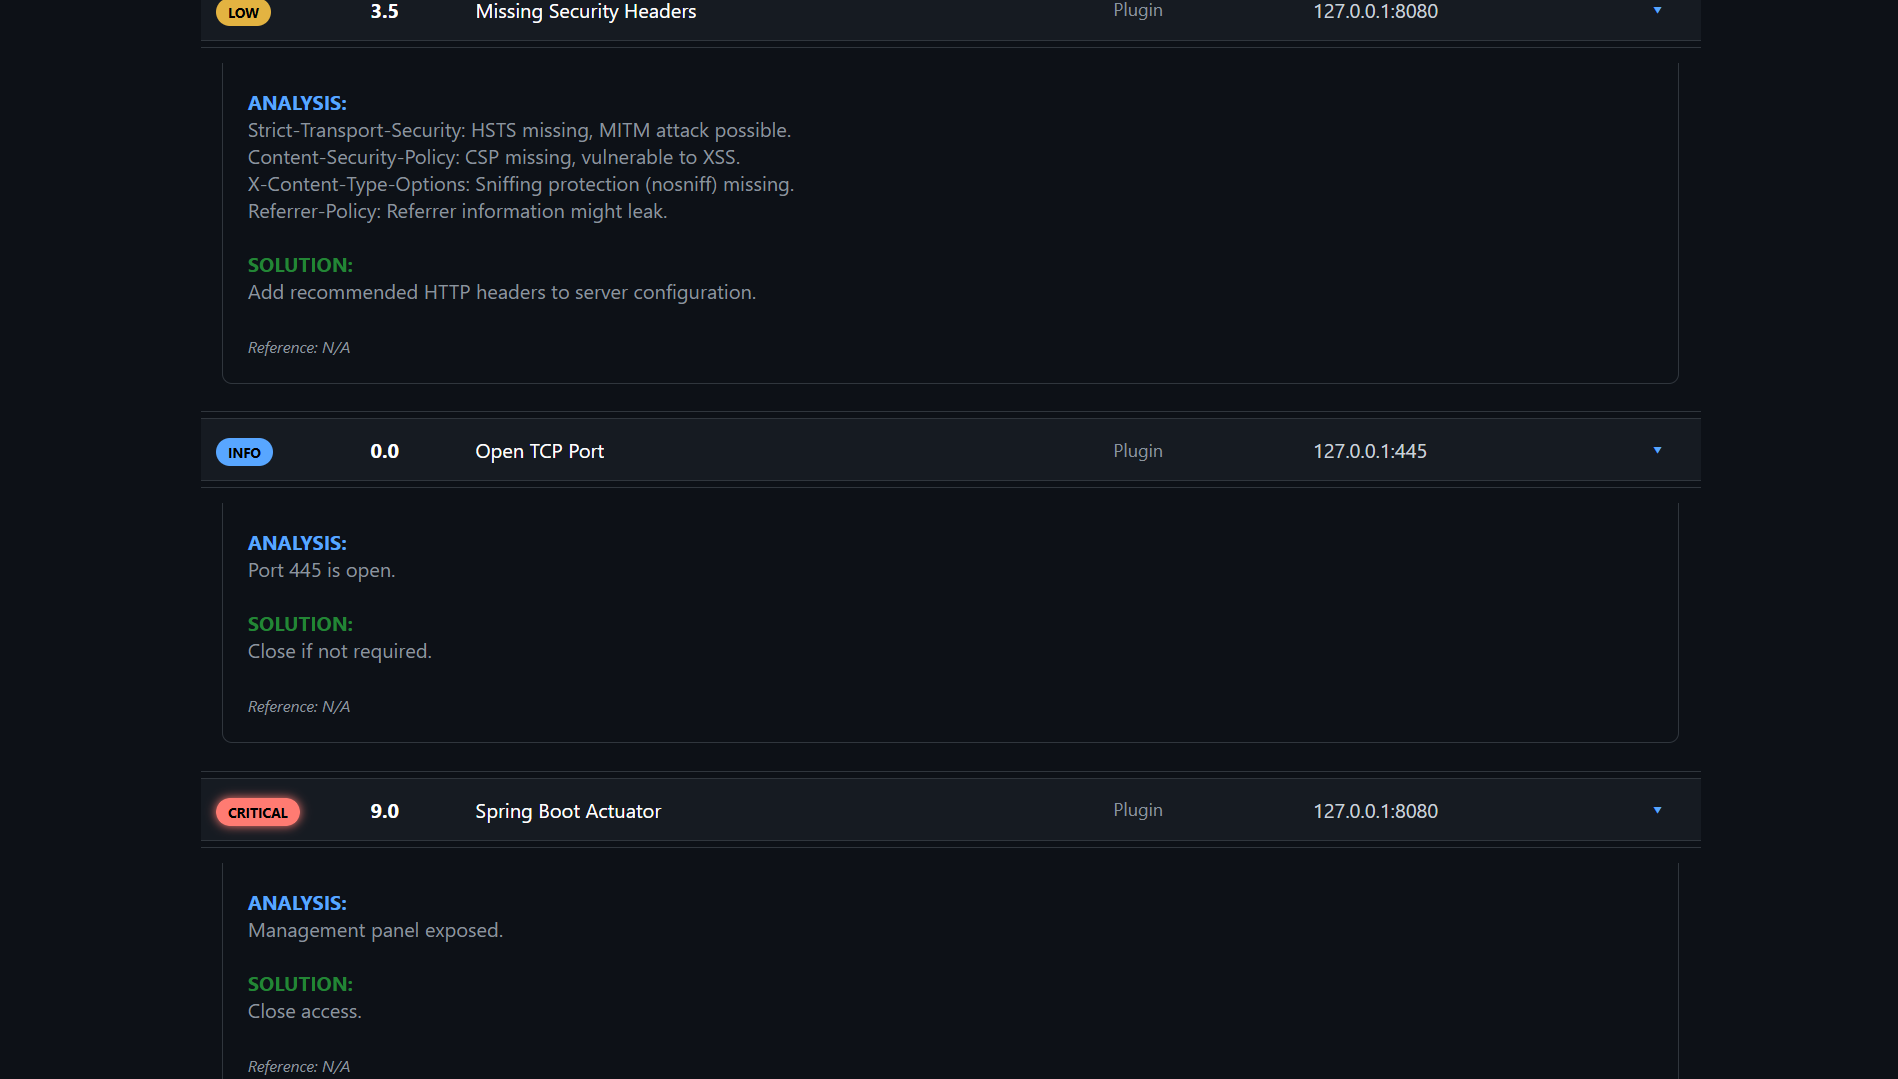
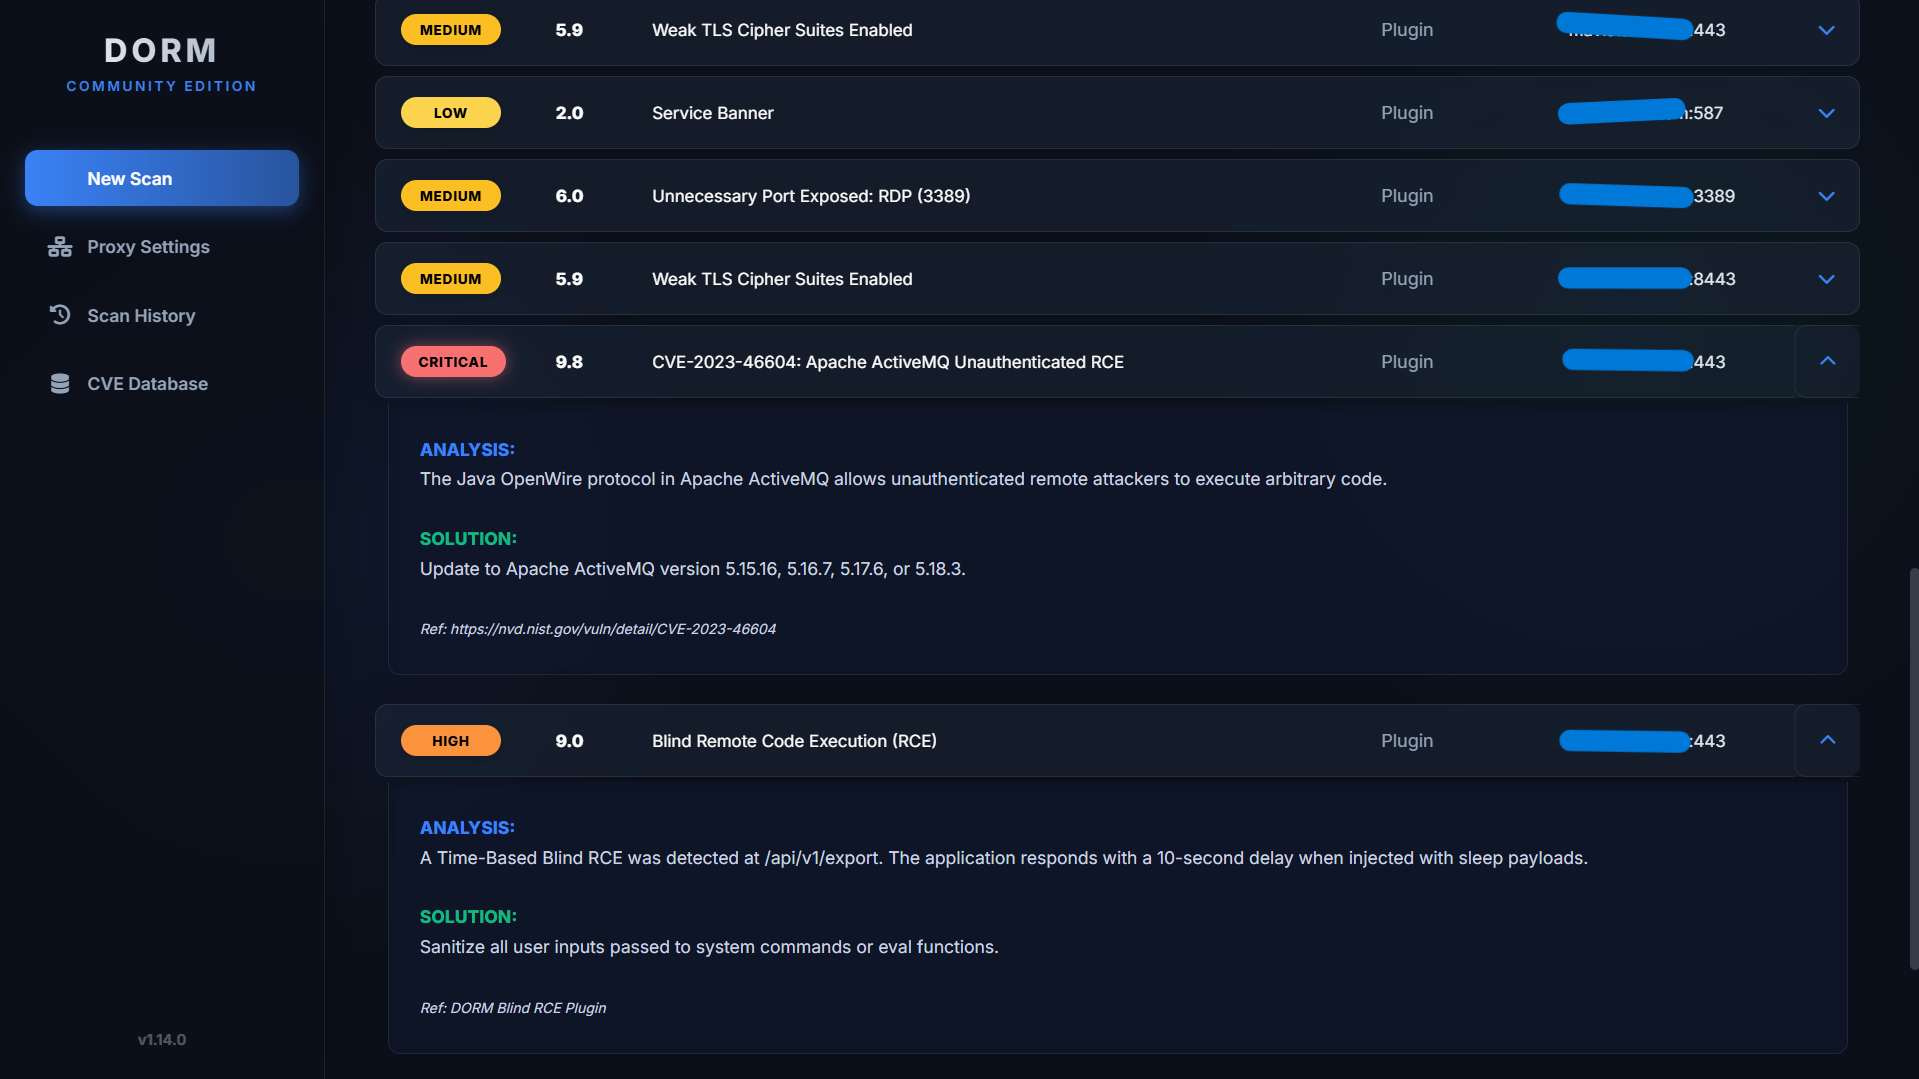
docs: update README and images for enhanced dashboard features and licensing

diff --git a/README.md b/README.md
@@ -1,12 +1,12 @@
-# 👁️ DORM - Next-Gen Vulnerability Scanner
+# DORM - Next-Gen Vulnerability Scanner
 
 ![Go Version](https://img.shields.io/badge/Go-1.21+-00ADD8?style=flat&logo=go)
-![License](https://img.shields.io/badge/License-GPLv3-blue)
+![License](https://img.shields.io/badge/License-AGPL--3.0-blue)
 ![Type](https://img.shields.io/badge/Type-Offensive%20Security-red)
 
 **DORM** is a high-performance, concurrent, and modular vulnerability scanner written in **Go**. Designed for Red Teams and Bug Bounty hunters, it combines passive reconnaissance with active, aggressive exploitation techniques.
 
-Unlike traditional scanners, DORM features a hybrid engine that utilizes **Headless Chrome (DOM XSS)**, **Smart Fuzzing**, and **In-Memory Exploit-DB** integration.
+Unlike traditional scanners, DORM features a hybrid engine that utilizes a **Native DAST Proxy**, a **Smart Spider (Active Fuzzing Engine)**, and an **Offline CVE Database** integration.
 
 ---
 
@@ -23,7 +23,7 @@ Unlike traditional scanners, DORM features a hybrid engine that utilizes **Headl
 </p>
 
 <p align="center">
-  <i>Real-time monitoring and advanced vulnerability detection capabilities.</i>
+  <i>Premium glassmorphism dark-themed dashboard with real-time SSE monitoring and persistent history management.</i>
 </p>
 
 ---
@@ -31,28 +31,29 @@ Unlike traditional scanners, DORM features a hybrid engine that utilizes **Headl
 ## 🚀 Key Features
 
 ### 🔥 Core Engine
-- **High Concurrency:** Scans multiple targets and ports simultaneously using Go routines.
-- **Smart Port Discovery:** Automatically detects web, database, and cloud services.
-- **Real-Time Dashboard:** Web-based UI (SSE) to monitor scan progress live.
+- **High Concurrency:** Orchestrates non-blocking scans across multiple targets and IP ranges simultaneously using Go routines.
+- **Native Proxy Analyzer:** Built-in HTTP DAST proxy (port 8081) for real-time passive traffic inspection and vulnerability detection.
+- **Smart Port Risk Analysis:** Performs deep service classification and framework fingerprinting on alternative ports to identify live dev servers.
+- **Dashboard & History Archival:** Real-time web-based UI (SSE) with a dedicated history viewer and HTML/PDF enterprise reporting capabilities.
 
 ### 🧠 Advanced Capabilities
-- **🕷️ Web Spider:** Recursively crawls the target to map the attack surface.
-- **🕸️ DOM XSS Scanner:** Uses **Headless Chrome** to detect JavaScript-based vulnerabilities in SPA (React/Vue).
-- **📚 Exploit-DB Integration:** Loads the entire Exploit Database into RAM for instant service version matching.
-- **🔓 Brute Force (Mini-Hydra):** Supports dictionary attacks on SSH and FTP.
+- **🕷️ Smart Spider (Active Fuzzer):** Intelligently crawls, parses HTML forms, extracts API endpoints, and creates a shared intelligence pool for precision payload injections.
+- **🕸️ Next-Gen DOM & Reflected XSS Engine:** Tri-phase architecture with advanced WAF-bypassing payload arsenals and line-by-line static DOM taint analysis.
+- **📚 Local CVE Database & AI Correlation:** Zero-latency offline CISA KEV search engine with AI-driven Semantic Versioning for exact vulnerability matching.
+- **🦎 Chameleon Mode & Evasion:** Dynamic User-Agent rotation, IP obfuscation, and smart jitter rate limiting to bypass WAFs and Firewalls.
 
-### 🛡️ 80+ Attack Modules
-DORM comes with over 80 specialized plugins including:
-- **Injection:** SQLi (Blind/Time), XSS (Reflected/DOM), SSTI, CRLF, Host Header.
-- **Cloud & DevOps:** Docker API, Kubernetes Kubelet, AWS/Google Key Leaks, S3 Buckets.
-- **Critical CVEs:** Log4Shell, Spring4Shell, Drupalgeddon2, F5 BIG-IP TMUI.
-- **Misconfig:** CORS, Git/Env Exposure, Open Redirects, Subdomain Takeover.
+### 🛡️ Comprehensive Attack Modules
+DORM comes equipped with highly advanced, multi-phase plugins:
+- **Injection Pipelines:** Omni-SQLi (6-phase), Blind RCE "Phantom Strike" (dynamic WAF bypass), XXE "XML Devil", Next-Gen SSRF (Cloud metadata & DNS rebinding), SSTI, and CRLF.
+- **Authentication & Logic:** "Hydra Elite" Brute Force Engine, JWT "Key Breaker" (Algorithm Confusion), Advanced IDOR (Dual-Profile Authorization Matrix), GraphQL Introspection.
+- **Cloud & DevOps:** Service exposure detection for MongoDB Wire, Tomcat "Catalina Exploiter" (In-Memory WAR Deployment), Docker API, Kubernetes, Redis.
+- **AI & Emerging Threats:** Dedicated AI/LLM Prompt Injection Scanner, 403/401 Authorization Bypass, Web Cache Poisoning, and HTTP Request Smuggling.
 
 ---
 
 ## 📦 Installation
 
-DORM requires **Go 1.21+** and **Google Chrome** (for DOM Scanner).
+DORM requires **Go 1.21+**.
 
 ---
 
@@ -88,9 +89,10 @@ The script will:
 - ✅ Verify your Go installation (1.21+ required)
 - ✅ Download all dependencies via `go mod download`
 - ✅ Compile `DORM.exe` in the project folder
+- ✅ Terminate any existing `DORM.exe` processes to prevent port conflicts
 
 **Step 2 — Run:**
 
 Double-click `DORM.exe`. A console window opens showing DORM's output. **Close that window to stop DORM.**
 
-> To rebuild (e.g. after pulling updates), delete `DORM.exe` and run `build_windows.bat` again.
+> To rebuild (e.g. after pulling updates), run `build_windows.bat` again.